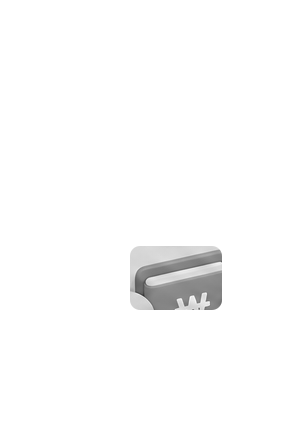
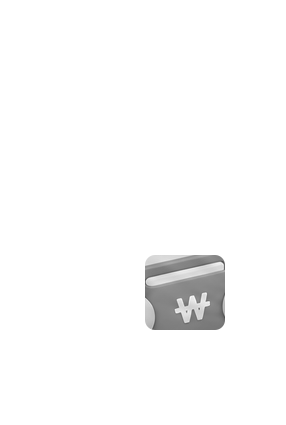
청소년기 가계부 위치 + 전 스테이지 잎사귀가 목까지 침범하던 버그 수정
사용자 신고(스크린샷): 청소년기(stage-3)의 가계부(가방으로 지칭) 위치가 이상하고,
새싹 오른쪽 색깔도 이상함.

1) 잎사귀 타원의 세로 반지름(ry)이 실제 줄기-몸통 경계보다 훨씬 커서, 머리 꼭대기(목
   주변)까지 잎사귀 색으로 칠해져 이상한 색 띠가 생겼다. 중앙 열 픽셀 색 스캔으로 줄기가
   실제로 몸통과 만나는 지점을 찾아 ry를 그 경계 안쪽으로 줄였다 — stage-3뿐 아니라
   stage-2·stage-4·stage-3-sulking도 같은 문제가 있어서 전부 같이 고쳤다.
2) 가계부(ledger) 사각형 좌표가 실제 위치보다 왼쪽·위로 치우쳐 있어서 그리드 오버레이로
   실제 위치를 다시 재서 고쳤다(더 오른쪽·아래, 세로로 더 큼).

Changed region(s): [[0.4476, 0.5812, 0.8112, 0.7953]]

diff --git a/design-assets/extract-pet-layers.js b/design-assets/extract-pet-layers.js
@@ -50,7 +50,9 @@ const STAGES = {
   "stage-2": {
     // 잎사귀·눈동자 범위 둘 다 실제 알파/색 경계를 픽셀 단위로 스캔해서 넓혔다(2026-09-15 사용자
     // 신고: 왼쪽 눈 아래·새싹 색이 안 바뀜 — 이전 범위가 실제 모양보다 작아서 잘려나갔던 게 원인).
-    leaf: [ellipse(138, 60, 80, 50)],
+    // ry를 줄여 줄기가 실제로 몸통과 만나는 지점(y≈90, 중앙 열 색 스캔) 아래로 안 넘어가게 함 —
+    // stage-3와 같은 "목에 이상한 띠" 버그가 여기도 있었다.
+    leaf: [ellipse(138, 55, 80, 36)],
     eyeBoxes: [{ x0: 75, x1: 148, y0: 145, y1: 222 }, { x0: 132, x1: 225, y0: 135, y1: 218 }],
     pupilDark: true,
     eyeWhite: true,
@@ -61,8 +63,12 @@ const STAGES = {
     fixed: [ellipse(240, 50, 26, 26)], // 하트 장식만 도형으로 남김
   },
   "stage-3": {
-    leaf: [ellipse(135, 70, 95, 62)],
-    ledger: [rect(130, 246, 92, 64, 10)],
+    // 잎사귀 ry가 너무 커서(62) 머리 위쪽까지 잎사귀색으로 칠해져 목 주변에 어색한 띠가 생겼다
+    // (사용자 신고, 2026-09-15). 줄기가 실제로 몸통과 만나는 지점(y≈112, 중앙 열 색 스캔으로 확인)
+    // 바로 아래에서 끊기도록 줄였다. 가계부도 실제 위치보다 왼쪽·위로 치우쳐 있어서(그리드 오버레이로
+    // 재확인) 좌표를 다시 잡았다.
+    leaf: [ellipse(135, 68, 90, 48)],
+    ledger: [rect(145, 255, 80, 75, 10)],
     eyeBoxes: [{ x0: 85, x1: 155, y0: 175, y1: 252 }, { x0: 145, x1: 248, y0: 155, y1: 250 }],
     pupilDark: true,
     eyeWhite: true,
@@ -70,7 +76,7 @@ const STAGES = {
     fixed: [rect(228, 10, 45, 65)], // 우측 상단 모션 라인만 도형으로 남김
   },
   "stage-4": {
-    leaf: [ellipse(147, 85, 112, 72)],
+    leaf: [ellipse(147, 78, 112, 45)], // 줄기-몸통 경계(y≈120, 중앙 열 색 스캔) 아래로 안 넘어가게
     bag: [ellipse(75, 375, 60, 60), ellipse(65, 345, 15, 11)],
     eyeBoxes: [{ x0: 110, x1: 205, y0: 210, y1: 296 }, { x0: 185, x1: 302, y0: 180, y1: 300 }],
     pupilDark: true,
@@ -83,7 +89,7 @@ const STAGES = {
   "stage-3-sulking": {
     // 크롭 직후 좌상단에 stage-4의 코인/반짝임이 새어 들어와서 지워야 한다(eraseFirst).
     eraseFirst: [rect(0, 0, 42, 148), rect(0, 140, 16, 40)],
-    leaf: [ellipse(150, 90, 85, 62)],
+    leaf: [ellipse(150, 85, 85, 52)], // 줄기-몸통 경계(y≈140) 아래로 안 넘어가게
     eyeBoxes: [{ x0: 55, x1: 170, y0: 225, y1: 305 }, { x0: 160, x1: 260, y0: 220, y1: 296 }],
     pupilDark: true,
     eyeWhite: true,
